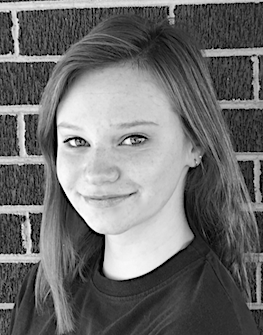
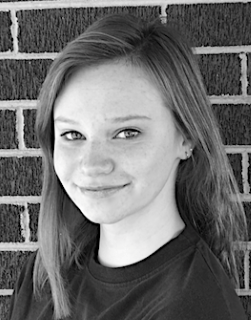
Updating for team changes

diff --git a/src/main/resources/static/about.html b/src/main/resources/static/about.html
@@ -62,29 +62,16 @@
 	<div class="row">
 		<div class="col-lg-6">
 			<div class="card mx-auto profile">
-			  <img id="victoria_profile" class="img-thumbnail img-fluid profile profile_img" style="width:311px;height:auto;display:none;" alt="...">
-			  <img id="victoria_profile_skeleton" src="images/clear.png" class="img-thumbnail img-fluid profile profile_img" style="width:300px;height:335px;" alt="...">			  
+			  <img id="graceM_profile" class="img-thumbnail img-fluid profile profile_img" style="width:240px;height:auto;display:none;" alt="...">
+			  <img id="graceM_profile_skeleton" src="images/clear.png" class="img-thumbnail img-fluid profile profile_img" style="width:300px;height:335px;" alt="...">			  
 			  <div class="card-body">
-			    <p class="card-text"><h5>Victoria Rabii</h5>
-			    <h6>Undergraduate researcher</h6></p>
-			    <p class="card-text"></p>
-			  </div>
-			</div>			
-		</div>
-		<div class="col-lg-6">
-			<div class="card mx-auto profile">
-			  <img id="emalee_profile" class="img-thumbnail img-fluid profile profile_img" style="width:263px;height:auto;display:none;" alt="...">
-			  <img id="emalee_profile_skeleton" src="images/clear.png" class="img-thumbnail img-fluid profile profile_img" style="width:300px;height:335px;" alt="...">			  
-			  <div class="card-body">
-			    <p class="card-text"><h5>Emalee Payne</h5>
-				    <h6>Undergraduate researcher</h6>
+			    <p class="card-text"><h5>Grace Mavodza</h5>
+				    <h6>Postdoctoral fellow</h6>
 				</p>
 			    <p class="card-text"></p>
 			  </div>
 			</div>			
-		</div>
-	</div>
-	<div class="row">
+		</div>	
 		<div class="col-lg-6">
 			<div class="card mx-auto profile">
 			  <img id="yeeA_profile" class="img-thumbnail img-fluid profile profile_img" style="width:245px;height:auto;display:none;" alt="...">
@@ -96,10 +83,12 @@
 			    <p class="card-text"></p>
 			  </div>
 			</div>			
-		</div>
+		</div>		
+	</div>
+	<div class="row">
 		<div class="col-lg-6">
 			<div class="card mx-auto profile">
-			  <img id="vTra_profile" class="img-thumbnail img-fluid profile profile_img" style="width:302px;height:auto;display:none;" alt="...">
+			  <img id="vTra_profile" class="img-thumbnail img-fluid profile profile_img" style="width:320px;height:auto;display:none;" alt="...">
 			  <img id="vTra_profile_skeleton" src="images/clear.png" class="img-thumbnail img-fluid profile profile_img" style="width:300px;height:335px;" alt="...">			  
 			  <div class="card-body">
 			    <p class="card-text"><h5>Vy Tra</h5>
@@ -108,15 +97,13 @@
 			    <p class="card-text"></p>
 			  </div>
 			</div>			
-		</div>
-	</div>
-	<div class="row">			
+		</div>			
 		<div class="col-lg-6">
 			<div class="card mx-auto profile">
-			  <img id="graceM_profile" class="img-thumbnail img-fluid profile profile_img" style="width:302px;height:auto;display:none;" alt="...">
-			  <img id="graceM_profile_skeleton" src="images/clear.png" class="img-thumbnail img-fluid profile profile_img" style="width:300px;height:335px;" alt="...">			  
+			  <img id="emalee_profile" class="img-thumbnail img-fluid profile profile_img" style="width:251px;height:auto;display:none;" alt="...">
+			  <img id="emalee_profile_skeleton" src="images/clear.png" class="img-thumbnail img-fluid profile profile_img" style="width:300px;height:335px;" alt="...">			  
 			  <div class="card-body">
-			    <p class="card-text"><h5>Grace Mavodza</h5>
+			    <p class="card-text"><h5>Emalee Payne</h5>
 				    <h6>Undergraduate researcher</h6>
 				</p>
 			    <p class="card-text"></p>
@@ -159,15 +146,6 @@
 					skeleton.style.display = 'none';
 					img.style.display = 'block';
 				});
-		imageLazyLoad("images/Victoria_profile.png",
-				()=>{
-					let skeleton = document.getElementById('victoria_profile_skeleton');
-					let img = document.getElementById('victoria_profile');
-					img.src = "images/Victoria_profile.png"
-					skeleton.style.display = 'none';
-					img.style.display = 'block';
-				});
-
 		imageLazyLoad("images/Emalee_profile.png",
 				()=>{
 					let skeleton = document.getElementById('emalee_profile_skeleton');

diff --git a/src/main/resources/static/about2.html b/src/main/resources/static/about2.html
@@ -62,29 +62,16 @@
 	<div class="row">
 		<div class="col-lg-6">
 			<div class="card mx-auto profile">
-			  <img id="john_profile" class="img-thumbnail img-fluid profile profile_img" style="width:298px;height:auto;display:none;" alt="...">
-			  <img id="john_profile_skeleton" src="images/clear.png" class="img-thumbnail img-fluid profile profile_img" style="width:300px;height:335px;" alt="...">			  
+			  <img id="meganT_profile" class="img-thumbnail img-fluid profile profile_img" style="width:302px;height:auto;display:none;" alt="...">
+			  <img id="meganT_profile_skeleton" src="images/clear.png" class="img-thumbnail img-fluid profile profile_img" style="width:300px;height:335px;" alt="...">			  
 			  <div class="card-body">
-			    <p class="card-text"><h5>John Anthony</h5>
-			    <h6>Undergraduate researcher</h6></p>
-			    <p class="card-text"></p>
-			  </div>
-			</div>			
-		</div>
-		<div class="col-lg-6">
-			<div class="card mx-auto profile">
-			  <img id="omar_profile" class="img-thumbnail img-fluid profile profile_img" style="width:302px;height:auto;display:none;" alt="...">
-			  <img id="omar_profile_skeleton" src="images/clear.png" class="img-thumbnail img-fluid profile profile_img" style="width:300px;height:335px;" alt="...">			  
-			  <div class="card-body">
-			    <p class="card-text"><h5>Omar Hassan</h5>
-				    <h6>Undergraduate researcher</h6>
+			    <p class="card-text"><h5>Megan Thompson</h5>
+				    <h6>Graduate researcher</h6>
 				</p>
 			    <p class="card-text"></p>
 			  </div>
 			</div>			
-		</div>				
-	</div>
-	<div class="row">
+		</div>	
 		<div class="col-lg-6">
 			<div class="card mx-auto profile">
 			  <img id="mehdi_profile" class="img-thumbnail img-fluid profile profile_img" style="width:298px;height:auto;display:none;" alt="...">
@@ -96,26 +83,14 @@
 			  </div>
 			</div>			
 		</div>
+	</div>
+	<div class="row">
 		<div class="col-lg-6">
 			<div class="card mx-auto profile">
 			  <img id="annaB_profile" class="img-thumbnail img-fluid profile profile_img" style="width:274px;height:auto;display:none;" alt="...">
 			  <img id="annaB_profile_skeleton" src="images/clear.png" class="img-thumbnail img-fluid profile profile_img" style="width:300px;height:335px;" alt="...">			  
 			  <div class="card-body">
 			    <p class="card-text"><h5>Anna Barberoglu</h5>
-				    <h6>Undergraduate researcher</h6>
-				</p>
-			    <p class="card-text"></p>
-			  </div>
-			</div>			
-		</div>
-	</div>
-	<div class="row">
-		<div class="col-lg-6">
-			<div class="card mx-auto profile">
-			  <img id="meganT_profile" class="img-thumbnail img-fluid profile profile_img" style="width:302px;height:auto;display:none;" alt="...">
-			  <img id="meganT_profile_skeleton" src="images/clear.png" class="img-thumbnail img-fluid profile profile_img" style="width:300px;height:335px;" alt="...">			  
-			  <div class="card-body">
-			    <p class="card-text"><h5>Megan Thompson</h5>
 				    <h6>Undergraduate researcher</h6>
 				</p>
 			    <p class="card-text"></p>
@@ -142,15 +117,6 @@
 	<script>
 	$(document).ready(()=>{
 
-		imageLazyLoad("images/Omar_profile.png",
-				()=>{
-					let skeleton = document.getElementById('omar_profile_skeleton');
-					let img = document.getElementById('omar_profile');
-					img.src = "images/Omar_profile.png"
-					skeleton.style.display = 'none';
-					img.style.display = 'block';
-				});
-
 		imageLazyLoad("images/Shilpa_profile.png",
 				()=>{
 					let skeleton = document.getElementById('shilpa_profile_skeleton');
@@ -167,14 +133,7 @@
 					skeleton.style.display = 'none';
 					img.style.display = 'block';
 				});
-		imageLazyLoad("images/John_profile.png",
-				()=>{
-					let skeleton = document.getElementById('john_profile_skeleton');
-					let img = document.getElementById('john_profile');
-					img.src = "images/John_profile.png"
-					skeleton.style.display = 'none';
-					img.style.display = 'block';
-				});
+
 		let profiles = ['mehdi_profile', 'annaB_profile', 'meganT_profile'];
 		let paths = ['images/mehdiAbed.jpg', 'images/AnnaBerberoglu.jpg', 'images/MeganT.jpg'];
 		
